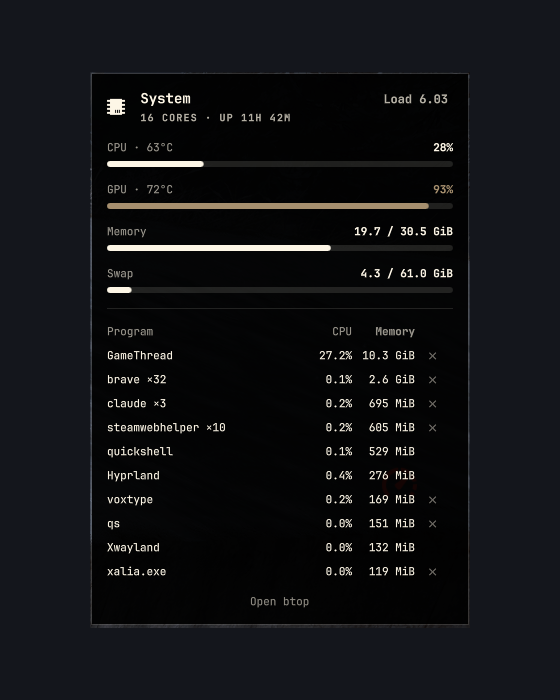
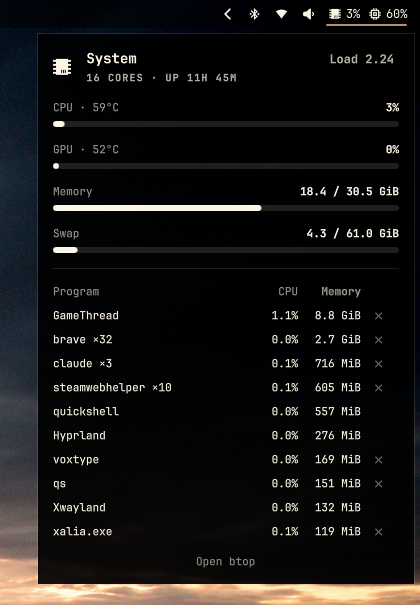
Show the bar reading and the open panel in the preview

diff --git a/README.md b/README.md
@@ -11,7 +11,7 @@
 
 [Install](#install) · [Usage](#usage) · [Settings](#settings) · [IPC](#ipc) · [Privacy](#privacy) · [Tests](#tests)
 
-![The System Stats panel: CPU, GPU, memory and swap meters, and the heaviest programs](preview.png)
+![System Stats in the bar, with its panel open: CPU, GPU, memory and swap meters, and the heaviest programs](preview.png)
 
 </div>
 
